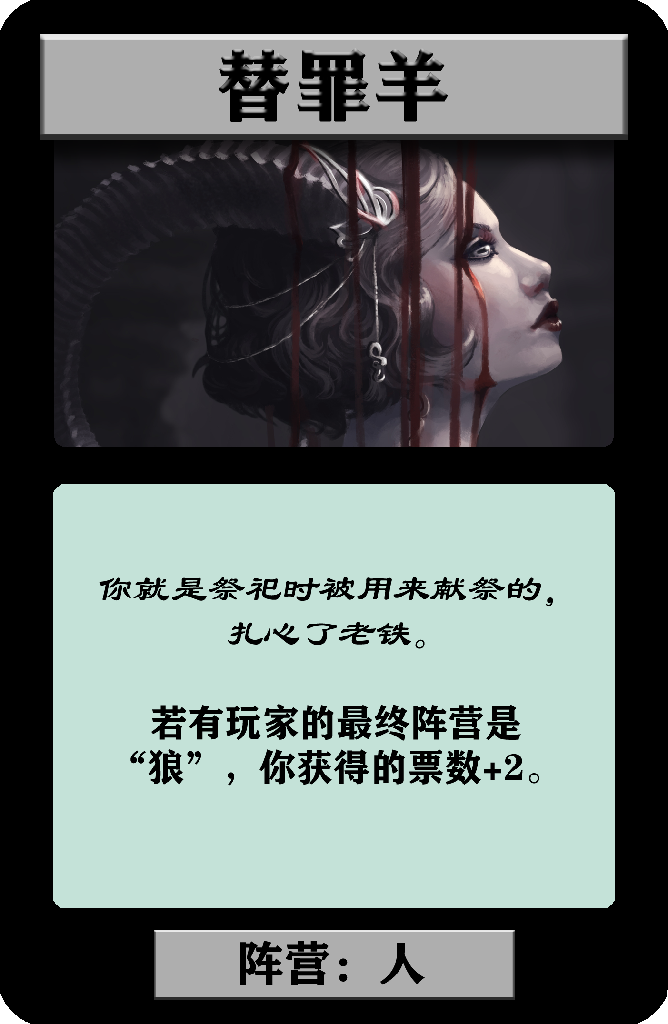
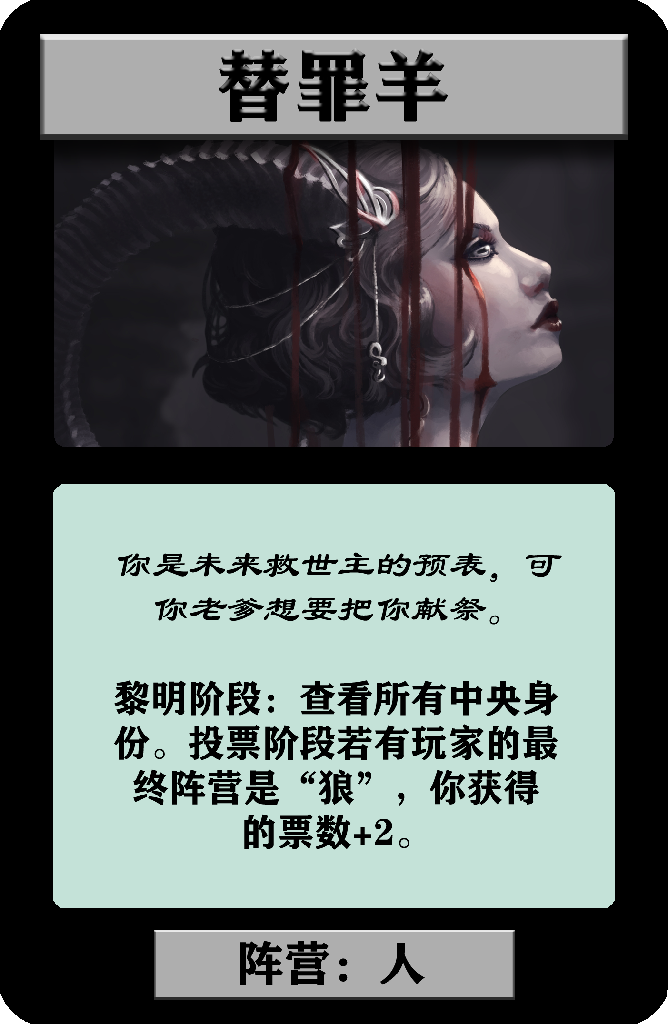
#0288 Onenight add Changeling, change Scapegoat; fix Wolfdog; change wolf side display

Changed region(s): [[0.1796, 0.6562, 0.8383, 0.8438], [0.1497, 0.5312, 0.8383, 0.625]]

diff --git a/src/main/webapp/view/html/onenightMain.html b/src/main/webapp/view/html/onenightMain.html
@@ -257,6 +257,7 @@
 								<button ng-click="showedCard='r03'" ng-disabled="showedCard == 'r03'">盗贼</button>
 								<button ng-click="showedCard='r23'" ng-disabled="showedCard == 'r23'">魔术师</button>
 								<button ng-click="showedCard='r14'" ng-disabled="showedCard == 'r14'">女巫</button>
+								<button ng-click="showedCard='r48'" ng-disabled="showedCard == 'r48'">调换儿</button>
 								<button ng-click="showedCard='r33'" ng-disabled="showedCard == 'r33'">演员</button>
 								<button ng-click="showedCard='r21'" ng-disabled="showedCard == 'r21'">小魔女</button>
 								<button ng-click="showedCard='r37'" ng-disabled="showedCard == 'r37'">小女孩</button>
@@ -274,6 +275,7 @@
 							<td>
 								<button ng-click="showedCard='r06'" ng-disabled="showedCard == 'r06'">失眠者</button>
 								<button ng-click="showedCard='r47'" ng-disabled="showedCard == 'r47'">守墓者</button>
+								<button ng-click="showedCard='r43'" ng-disabled="showedCard == 'r43'">替罪羊</button>
 								<button ng-click="showedCard='r18'" ng-disabled="showedCard == 'r18'">观者</button>
 								<button ng-click="showedCard='r31'" ng-disabled="showedCard == 'r31'">主教</button>
 								<button ng-click="showedCard='r29'" ng-disabled="showedCard == 'r29'">村长</button>
@@ -301,7 +303,6 @@
 								<button ng-click="showedCard='r32'" ng-disabled="showedCard == 'r32'">僧侣</button>
 								<button ng-click="showedCard='r34'" ng-disabled="showedCard == 'r34'">邪灵法师</button>
 								<button ng-click="showedCard='r40'" ng-disabled="showedCard == 'r40'">面包师</button>
-								<button ng-click="showedCard='r43'" ng-disabled="showedCard == 'r43'">替罪羊</button>
 								<button ng-click="showedCard='r00'" ng-disabled="showedCard == 'r00'">村民</button>
 							</td>
 						</tr>
@@ -563,6 +564,18 @@
 								&nbsp;&nbsp;&nbsp;&nbsp;&nbsp;&nbsp;&nbsp;&nbsp;<b>阵营：</b>人</br>
 								&nbsp;&nbsp;&nbsp;&nbsp;&nbsp;&nbsp;&nbsp;&nbsp;<b>技能：</b>夜晚阶段你可以查看一张中央身份并将其与任何一名玩家（可以是自己）的身份交换。
 								你也可以不发动此技能，但若你查看中央身份则必定要和一名玩家交换。</br>
+							</td>
+						</tr>
+					</table>
+					<table ng-show="showedCard == 'r48'">
+						<tr style="width: 1000px">
+							<td><img ng-src="/image/Onenight/Roles/{{showedCard}}.png" class="newsImg"></td>
+							<td style="width: 790px; vertical-align:top">
+								<h4 class="onenighttext">&nbsp;&nbsp;&nbsp;&nbsp; 调换儿</h4>
+								&nbsp;&nbsp;&nbsp;&nbsp;&nbsp;&nbsp;&nbsp;&nbsp;<b>张数：</b>1</br>
+								&nbsp;&nbsp;&nbsp;&nbsp;&nbsp;&nbsp;&nbsp;&nbsp;<b>阵营：</b>人</br>
+								&nbsp;&nbsp;&nbsp;&nbsp;&nbsp;&nbsp;&nbsp;&nbsp;<b>技能：</b>夜晚阶段将你的身份牌和你指定的一张中央身份交换，该技能必须发动。交换完后你查看你获得的新身份。
+								黎明阶段开始前，你指定的相同位置的中央身份和你的身份将再次被交换。</br>
 							</td>
 						</tr>
 					</table>
@@ -893,7 +906,7 @@
 								<h4 class="onenighttext">&nbsp;&nbsp;&nbsp;&nbsp; 替罪羊</h4>
 								&nbsp;&nbsp;&nbsp;&nbsp;&nbsp;&nbsp;&nbsp;&nbsp;<b>张数：</b>1</br>
 								&nbsp;&nbsp;&nbsp;&nbsp;&nbsp;&nbsp;&nbsp;&nbsp;<b>阵营：</b>人</br>
-								&nbsp;&nbsp;&nbsp;&nbsp;&nbsp;&nbsp;&nbsp;&nbsp;<b>技能：</b>若有玩家的最终阵营是“狼”，在投票结束后你额外获得2票。若没有玩家的最终阵营是“狼”，你不会获得额外的票数。
+								&nbsp;&nbsp;&nbsp;&nbsp;&nbsp;&nbsp;&nbsp;&nbsp;<b>技能：</b>黎明阶段查看所有中央身份。投票阶段时若有玩家的最终阵营是“狼”，在投票结束后你额外获得2票；若没有玩家的最终阵营是“狼”，你不会获得额外的票数。
 							</td>
 						</tr>
 					</table>

diff --git a/src/main/webapp/view/html/index.html b/src/main/webapp/view/html/index.html
@@ -64,6 +64,30 @@
 						<table>
 							<tr>
 								<td colspan="2">
+									<h4>2021.03.09 <span class="onenighttext">狼人不杀</span> 新增调换儿，修改替罪羊的效果</h4>
+								</td>
+							</tr>
+							<tr style="width: 1000px">
+								<td><img ng-src="/image/Onenight/Roles/r48.png" class="newsImg"></td>
+								<td style="width: 790px; vertical-align:top">
+									<h4 class="onenighttext">&nbsp;&nbsp;&nbsp;&nbsp; 调换儿</h4>
+									&nbsp;&nbsp;&nbsp;&nbsp;&nbsp;&nbsp;&nbsp;&nbsp;<b>张数：</b>1</br>
+									&nbsp;&nbsp;&nbsp;&nbsp;&nbsp;&nbsp;&nbsp;&nbsp;<b>阵营：</b>人</br>
+									&nbsp;&nbsp;&nbsp;&nbsp;&nbsp;&nbsp;&nbsp;&nbsp;<b>技能：</b>夜晚阶段将你的身份牌和你指定的一张中央身份交换，该技能必须发动。交换完后你查看你获得的新身份。
+									黎明阶段开始前，你指定的相同位置的中央身份和你的身份将再次被交换。</br>
+								</td>
+							</tr>
+							<tr style="width: 1000px">
+								<td><img ng-src="/image/Onenight/Roles/r43.png" class="newsImg"></td>
+								<td style="width: 790px; vertical-align:top">
+									<h4 class="onenighttext">&nbsp;&nbsp;&nbsp;&nbsp; 替罪羊</h4>
+									&nbsp;&nbsp;&nbsp;&nbsp;&nbsp;&nbsp;&nbsp;&nbsp;<b>张数：</b>1</br>
+									&nbsp;&nbsp;&nbsp;&nbsp;&nbsp;&nbsp;&nbsp;&nbsp;<b>阵营：</b>人</br>
+									&nbsp;&nbsp;&nbsp;&nbsp;&nbsp;&nbsp;&nbsp;&nbsp;<b>技能：</b>黎明阶段查看所有中央身份。投票阶段时若有玩家的最终阵营是“狼”，在投票结束后你额外获得2票；若没有玩家的最终阵营是“狼”，你不会获得额外的票数。
+								</td>
+							</tr>
+							<tr>
+								<td colspan="2">
 									<h4>2021.02.12 <span class="onenighttext">狼人不杀</span> 引入黎明阶段，修改独狼变体效果，且新增一些身份</h4>
 								</td>
 							</tr>
@@ -100,7 +124,7 @@
 								</td>
 							</tr>
 							<tr style="width: 1000px">
-								<td><img ng-src="/image/Onenight/Roles/r43.png" class="newsImg"></td>
+								<td><img ng-src="/image/Onenight/Roles/zr43_old.png" class="newsImg"></td>
 								<td style="width: 790px; vertical-align:top">
 									<h4 class="onenighttext">&nbsp;&nbsp;&nbsp;&nbsp; 替罪羊</h4>
 									&nbsp;&nbsp;&nbsp;&nbsp;&nbsp;&nbsp;&nbsp;&nbsp;<b>张数：</b>1</br>
@@ -381,6 +405,7 @@
 								</td>
 							</tr>
 							<tr><td>&nbsp;</td><td></td></tr>
+							<!--
 							<tr>
 								<td colspan="2">
 									<h4>2020.12.24 <span class="onenighttext">狼人不杀</span> 上线</h4>
@@ -493,7 +518,7 @@
 									主要经营民用灯、工矿灯、舞台灯、草坪灯、节日霓虹灯、各种光源及厨卫小家电等。是国内创办较早、规模最大、成交额最高以批发为主的灯具专业市场。
 								</td>
 							</tr>
-							<!--
+							
 							<tr>
 								<td colspan="2">
 									<h4>2020.12.05 <span class="pokewhattext">宝可纳尼</span> 一些卡牌的效果更改</h4>
@@ -1201,6 +1226,8 @@
 						</table>
 					</div>
 					<h4>往期新闻</h4>
+					<p>2020.12.24 <span class="onenighttext">狼人不杀</span> 上线</p>
+					<p>2020.12.07 <span class="citadelstext">富饶龙城</span> 更多自创建筑上线</p>
 					<p>2020.12.05 <span class="pokewhattext">宝可纳尼</span> 一些卡牌的效果更改</p>
 					<p>2020.11.27 <span class="gravepsychotext">盗墓惊魂</span> 上线</p>
 					<p>2020.11.19 <span class="pokewhattext">宝可纳尼</span> 上线</p>

diff --git a/src/main/webapp/js/app/onenightGameController.js b/src/main/webapp/js/app/onenightGameController.js
@@ -291,6 +291,8 @@ app.controller("onenightGameCtrl", ['$scope', '$window', '$http', '$document', '
 				imgUrl = "url('/image/Onenight/qs.png')"
 				if ($scope.playerMarks[i] == "-1" || $scope.playerMarks[i] == "-2" || $scope.playerMarks[i] == "-3"){
 					
+				} else if ($scope.playerMarks[i] == "-4"){
+					imgUrl = "url('/image/Onenight/wolfcard.png')"
 				} else {
 					imgUrl = "url('/image/Onenight/Roles/" + $scope.playerMarks[i] + ".png')"
 				}

diff --git a/src/main/webapp/view/css/onenightOther.css b/src/main/webapp/view/css/onenightOther.css
@@ -92,6 +92,18 @@ button:disabled{
 	background-size:cover;
 }
 
+.wolf{
+	position: absolute;
+	user-select:none;
+	left: 18px;
+	top: 0px;
+	height: 70px;
+	width: 70px;
+	background:url("/image/Onenight/wolf.png");
+	background-size:cover;
+	filter:brightness(120%) drop-shadow(0px 0px 10px red);
+}
+
 .vote{
 	position: absolute;
 	user-select:none;

diff --git a/src/main/webapp/view/html/onenightGame.html b/src/main/webapp/view/html/onenightGame.html
@@ -118,7 +118,7 @@
 					</td>
 				</tr>
 			</table>
-			本局所有角色（按夜晚行动顺序排列）
+			本局所有身份（按夜晚行动顺序排列）
 			<table style="margin-top: 10px">
 				<tr>
 					<td>

diff --git a/src/main/java/com/cosine/cosgame/onenight/roles/Changeling.java b/src/main/java/com/cosine/cosgame/onenight/roles/Changeling.java
@@ -1,0 +1,59 @@
+package com.cosine.cosgame.onenight.roles;
+
+import com.cosine.cosgame.onenight.Consts;
+import com.cosine.cosgame.onenight.Manipulations;
+import com.cosine.cosgame.onenight.Player;
+import com.cosine.cosgame.onenight.Role;
+
+public class Changeling extends Role{
+	public Changeling() {
+		super();
+		roleNum = 48;
+		side = Consts.HUMAN;
+		img = "r48";
+		sequence = 670;
+		name = "调换儿";
+		chooseCenterNum = 1;
+		hasNight = true;
+		mandatory = true;
+		nightMsg.add("你的初始身份是 调换儿。");
+		nightMsg.add("将你的身份和一张中央身份交换，黎明之前你的身份与该位置的中央身份将再次被交换。");
+		nightMsg.add("选择后点击确认结束你的夜晚阶段，天亮时你可以看到你获得的身份牌。");
+		confirmedMsg.add("你的初始身份是 调换儿。");
+		confirmedMsg.add("拥有交换标记的中央身份你选择的交换对象，黎明之前你的身份和该中央身份将再次被交换。");
+		confirmedMsg.add("正等待其他玩家确认。");
+		dayMsg.add("你的初始身份是 调换儿，你现在的身份可能已有变化。");
+		dayMsg.add("拥有交换标记的中央身份是你当时的交换对象，黎明之前你的身份和该中央身份再次交换。");
+		dayMsg.add("你可以选择某位玩家的身份牌并点击确认投票给该玩家。");
+		votedMsg.add("你的初始身份是 调换儿，你现在的身份可能已有变化。");
+		votedMsg.add("你已投票，正等待其他玩家投票。");
+	}
+	
+	public void useSkill(int t1) {
+		if (t1 >= 100 && t1 <= 102) {
+			int x = t1-100;
+			player.getCenterMarks().set(x, Consts.EXCHANGE);
+		}
+	}
+	
+	public void executeSkill() {
+		int i;
+		for (i=0;i<player.getCenterMarks().size();i++) {
+			if (player.getCenterMarks().get(i) == Consts.EXCHANGE) {
+				Manipulations.swapCenterRole(player, board, i);
+				Manipulations.viewCurrentRole(player);
+				break;
+			}
+		}
+	}
+	
+	public void onDawnSkill() {
+		int i;
+		for (i=0;i<player.getCenterMarks().size();i++) {
+			if (player.getCenterMarks().get(i) == Consts.EXCHANGE) {
+				Manipulations.swapCenterRole(player, board, i);
+				break;
+			}
+		}
+	}
+}

diff --git a/src/main/java/com/cosine/cosgame/onenight/roles/Pope.java b/src/main/java/com/cosine/cosgame/onenight/roles/Pope.java
@@ -13,17 +13,17 @@ public class Pope extends Role{
 		sequence = 401;
 		name = "教宗";
 		nightMsg.add("你的初始身份是 教宗。");
-		nightMsg.add("场上显示身份牌的玩家初始阵营为狼，其身份不一定为狼人。");
+		nightMsg.add("身份牌上有标记的玩家初始阵营为狼。");
 		nightMsg.add("点击确认结束你的夜晚阶段。");
 		confirmedMsg.add("你的初始身份是 教宗。");
-		confirmedMsg.add("场上显示身份牌的玩家初始阵营为狼，其身份不一定为狼人。");
+		confirmedMsg.add("身份牌上有标记的玩家初始阵营为狼。");
 		confirmedMsg.add("正等待其他玩家确认。");
 		dayMsg.add("你的初始身份是 教宗，你现在的身份可能已有变化。");
-		dayMsg.add("场上显示身份牌的玩家初始身份和你同一阵营，其身份不一定为狼人，且当前身份可能已有变化。");
+		dayMsg.add("身份牌上有标记的玩家初始身份和你同一阵营，当前身份可能已有变化。");
 		dayMsg.add("你可以选择某位玩家的身份牌并点击确认投票给该玩家。");
 		dayMsg.add("若所有狼阵营玩家将票投给你，则人阵营玩家会直接失败。");
 		votedMsg.add("你的初始身份是 教宗，你现在的身份可能已有变化。");
-		votedMsg.add("场上显示身份牌的玩家初始身份和你同一阵营，其身份不一定为狼人，且当前身份可能已有变化。");
+		votedMsg.add("身份牌上有标记的玩家初始身份和你同一阵营，当前身份可能已有变化。");
 		votedMsg.add("若所有狼阵营玩家将票投给你，则人阵营玩家会直接失败。");
 		votedMsg.add("你已投票，正等待其他玩家投票。");
 	}
@@ -36,7 +36,7 @@ public class Pope extends Role{
 			}
 			Player p = board.getPlayers().get(i);
 			if (p.getInitialRole().getSide() == Consts.WOLF) {
-				player.getPlayerMarks().set(i, 1);
+				player.getPlayerMarks().set(i, Consts.WOLFMARK);
 			}
 		}
 	}

diff --git a/src/main/java/com/cosine/cosgame/onenight/roles/Minion.java b/src/main/java/com/cosine/cosgame/onenight/roles/Minion.java
@@ -13,16 +13,16 @@ public class Minion extends Role{
 		sequence = 300;
 		name = "帮凶";
 		nightMsg.add("你的初始身份是 帮凶。");
-		nightMsg.add("场上显示身份牌的玩家初始身份和你同一阵营，其身份不一定为狼人。");
+		nightMsg.add("身份牌上有标记的玩家初始身份和你同一阵营。");
 		nightMsg.add("点击确认结束你的夜晚阶段。");
 		confirmedMsg.add("你的初始身份是 帮凶。");
-		confirmedMsg.add("场上显示身份牌的玩家初始身份和你同一阵营，其身份不一定为狼人。");
+		confirmedMsg.add("身份牌上有标记的玩家初始身份和你同一阵营。");
 		confirmedMsg.add("正等待其他玩家确认。");
 		dayMsg.add("你的初始身份是 帮凶，你现在的身份可能已有变化。");
-		dayMsg.add("场上显示身份牌的玩家初始身份和你同一阵营，其身份不一定为狼人，且当前阵营可能已有变化。");
+		dayMsg.add("身份牌上有标记的玩家初始身份和你同一阵营，且当前阵营可能已有变化。");
 		dayMsg.add("你可以选择某位玩家的身份牌并点击确认投票给该玩家。");
 		votedMsg.add("你的初始身份是 帮凶，你现在的身份可能已有变化。");
-		votedMsg.add("场上显示身份牌的玩家初始身份和你同一阵营，其身份不一定为狼人，且当前阵营可能已有变化。");
+		votedMsg.add("身份牌上有标记的玩家初始身份和你同一阵营，且当前阵营可能已有变化。");
 		votedMsg.add("你已投票，正等待其他玩家投票。");
 	}
 	
@@ -34,7 +34,7 @@ public class Minion extends Role{
 			}
 			Player p = board.getPlayers().get(i);
 			if (p.getInitialRole().getSide() == Consts.WOLF) {
-				player.getPlayerMarks().set(i, 1);
+				player.getPlayerMarks().set(i, Consts.WOLFMARK);
 			}
 		}
 	}

diff --git a/src/main/java/com/cosine/cosgame/onenight/roles/Scapegoat.java b/src/main/java/com/cosine/cosgame/onenight/roles/Scapegoat.java
@@ -1,5 +1,9 @@
 package com.cosine.cosgame.onenight.roles;
 
+import java.util.ArrayList;
+import java.util.List;
+import java.util.Random;
+
 import com.cosine.cosgame.onenight.Consts;
 import com.cosine.cosgame.onenight.Role;
 
@@ -9,10 +13,10 @@ public class Scapegoat extends Role{
 		roleNum = 43;
 		side = Consts.HUMAN;
 		img = "r43";
-		sequence = 0;
+		sequence = 930;
 		name = "替罪羊";
 		nightMsg.add("你的初始身份是 替罪羊。");
-		nightMsg.add("点击确认结束你的夜晚阶段。");
+		nightMsg.add("点击确认结束你的夜晚阶段。天亮时你将看到所有中央身份。");
 		confirmedMsg.add("你的初始身份是 替罪羊。");
 		confirmedMsg.add("正等待其他玩家确认。");
 		dayMsg.add("你的初始身份是 替罪羊，你现在的身份可能已有变化。");
@@ -21,6 +25,14 @@ public class Scapegoat extends Role{
 		votedMsg.add("你的初始身份是 替罪羊，你现在的身份可能已有变化。");
 		votedMsg.add("若你依然是替罪羊且有玩家是狼阵营，你将额外获得2票。");
 		votedMsg.add("你已投票，正等待其他玩家投票。");
+	}
+	
+	public void executeSkill() {
+		for (int i=0;i<board.getCenterRoles().size();i++) {
+			Role r = board.getCurCenterRole(i);
+			System.out.println(r.getRoleNumToShow());
+			player.getCenterMarks().set(i, r.getRoleNumToShow());
+		}
 	}
 	
 	public void afterVoteCountHandle() {

diff --git a/src/main/java/com/cosine/cosgame/onenight/Consts.java b/src/main/java/com/cosine/cosgame/onenight/Consts.java
@@ -56,12 +56,20 @@ public class Consts {
 	public static final int FOX = 38;
 	public static final int WEREMELEON = 39;
 	public static final int BAKER = 40;
-	public static final int MASQUERADER = 40;
+	public static final int MASQUERADER = 41;
+	public static final int SORCERER = 42;
+	public static final int SCAPEGOAT = 43;
+	public static final int WOLFDOG = 44;
+	public static final int BIGBADWOLF = 45;
+	public static final int BUTTERFLY = 46;
+	public static final int GRAVEKEEPER = 47;
+	public static final int CHANGELING = 48;
 	
 	// marks
 	public static final int UNKNOWN = -1;
 	public static final int EXCHANGE = -2;
 	public static final int TARGET = -3;
+	public static final int WOLFMARK = -4;
 	
 	// spliter
 	public static final int DAWNSPLITER = 850;

diff --git a/src/main/java/com/cosine/cosgame/onenight/roles/Wolfdog.java b/src/main/java/com/cosine/cosgame/onenight/roles/Wolfdog.java
@@ -22,7 +22,7 @@ public class Wolfdog extends Role{
 		dayMsg.add("若你的身份牌被“人”阵营玩家看到，你的阵营会变为“人”。");
 		dayMsg.add("你可以选择某位玩家的身份牌并点击确认投票给该玩家。");
 		votedMsg.add("你的初始身份是 狼狗，你的狼队友认识你，你现在的身份可能已有变化。");
-		dayMsg.add("若你的身份牌被“人”阵营玩家看到，你的阵营会变为“人”。");
+		votedMsg.add("若你的身份牌被“人”阵营玩家看到，你的阵营会变为“人”。");
 		votedMsg.add("你已投票，正等待其他玩家投票。");
 	}
 	

diff --git a/src/main/java/com/cosine/cosgame/onenight/AllRes.java b/src/main/java/com/cosine/cosgame/onenight/AllRes.java
@@ -60,6 +60,8 @@ public class AllRes {
 		allRoles.add(r);
 		r = new Witch();
 		allRoles.add(r);
+		r = new Changeling();
+		allRoles.add(r);
 		r = new Actor();
 		allRoles.add(r);
 		r = new YoungWitch();
@@ -75,6 +77,8 @@ public class AllRes {
 		r = new Insomniac();
 		allRoles.add(r);
 		r = new Gravekeeper();
+		allRoles.add(r);
+		r = new Scapegoat();
 		allRoles.add(r);
 		r = new Watcher();
 		allRoles.add(r);
@@ -111,8 +115,6 @@ public class AllRes {
 		r = new Pagan();
 		allRoles.add(r);
 		r = new Baker();
-		allRoles.add(r);
-		r = new Scapegoat();
 		allRoles.add(r);
 		for (i=0;i<3;i++) {
 			r = new Villager();
